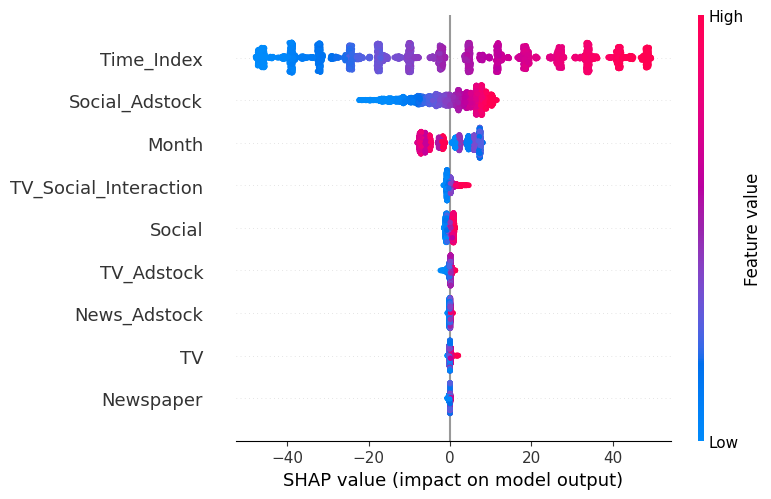
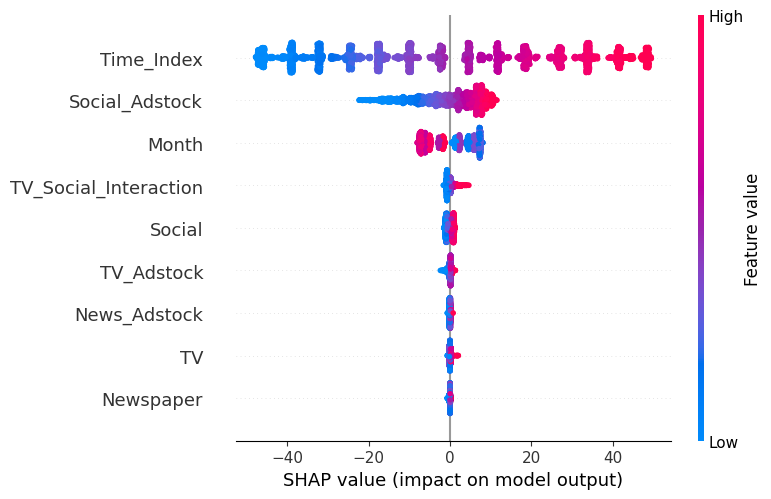
updated the sample index from 0 to 4500

diff --git a/src/explain.py b/src/explain.py
@@ -99,7 +99,7 @@ print(
 # -------------------------------
 # SHAP Waterfall Plot
 # -------------------------------
-sample_index = 0
+sample_index = 4500
 
 explanation = shap.Explanation(
     values=shap_values[sample_index],